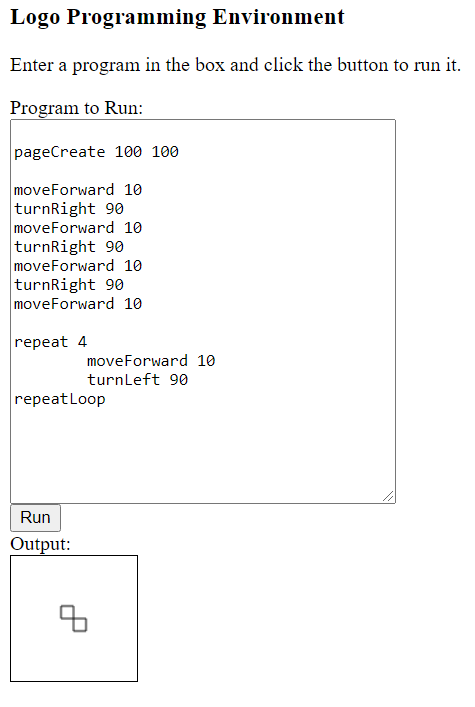
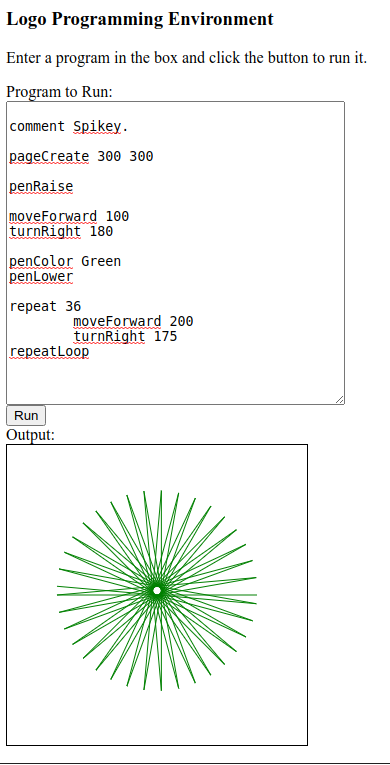
Added Samples directory.  Added comment and penColor commands.  Added more impressive default sample program.

diff --git a/Source/Cursor.js b/Source/Cursor.js
@@ -1,9 +1,10 @@
 class Cursor
 {
-	constructor(loc, isPenDown)
+	constructor(loc, isPenDown, penColor)
 	{
 		this.loc = loc || new Location();
 		this.isPenDown = isPenDown || true;
+		this.penColor = penColor || "Black";
 	}
 
 	static RadiansPerTurn = Math.PI * 2;
@@ -23,11 +24,22 @@ class Cursor
 		if (this.isPenDown)
 		{
 			var graphics = Environment.Instance().graphics;
+			graphics.strokeStyle = this.penColor;
 			graphics.beginPath();
 			graphics.moveTo(posBefore.x, posBefore.y);
 			graphics.lineTo(pos.x, pos.y);
 			graphics.stroke();
 		}
+	}
+
+	penColorSet(colorToSet)
+	{
+		this.penColor = colorToSet;
+	}
+
+	penToggle()
+	{
+		this.isPenDown = (this.isPenDown == false);
 	}
 
 	reset(pageSize)
@@ -36,7 +48,7 @@ class Cursor
 		var pos = this.loc.pos;
 		pos.x = pageCenter.x;
 		pos.y = pageCenter.y;
-		this.forwardInTurns = 0;
+		this.loc.forwardInTurns = 0;
 		this.isPenDown = true;
 	}
 

diff --git a/Source/Instruction.js b/Source/Instruction.js
@@ -13,7 +13,7 @@ class Instruction
 		var operand0 = this.operands[0];
 		var operand1 = this.operands[1];
 
-		if (commandName == "")
+		if (commandName == "" || commandName == "comment")
 		{
 			// Do nothing.
 		}
@@ -21,6 +21,10 @@ class Instruction
 		{
 			var pixelsToMove = operand0;
 			environment.cursor.moveForwardByPixels(pixelsToMove);
+		}
+		else if (commandName == "penColor")
+		{
+			environment.cursor.penColorSet(operand0);
 		}
 		else if (commandName == "penLower")
 		{
@@ -97,7 +101,7 @@ class Instruction
 		}
 		else
 		{
-			alert("Unrecognized command: " + codeLine);
+			throw "Unrecognized instruction:" + this.operationName;
 		}
 	}
 }

diff --git a/Source/LogoProgrammingEnvironment.html b/Source/LogoProgrammingEnvironment.html
@@ -9,19 +9,21 @@
 	<br />
 	<textarea id="textareaCode" cols="40" rows="20">
 
-pageCreate 100 100
+comment Spikey.
 
-moveForward 10
-turnRight 90
-moveForward 10
-turnRight 90
-moveForward 10
-turnRight 90
-moveForward 10
+pageCreate 300 300
 
-repeat 4
-	moveForward 10
-	turnLeft 90
+penRaise
+
+moveForward 100
+turnRight 180
+
+penColor Green
+penLower
+
+repeat 36
+	moveForward 200
+	turnRight 175
 repeatLoop
 
 	</textarea>

diff --git a/Source/Environment.js b/Source/Environment.js
@@ -34,8 +34,7 @@ class Environment
 				var tokens = codeLine.split(" ");
 				return new Instruction
 				(
-					tokens[0],
-					tokens.slice(1).map(t => parseInt(t))
+					tokens[0], tokens.slice(1)
 				);
 			}
 		);
